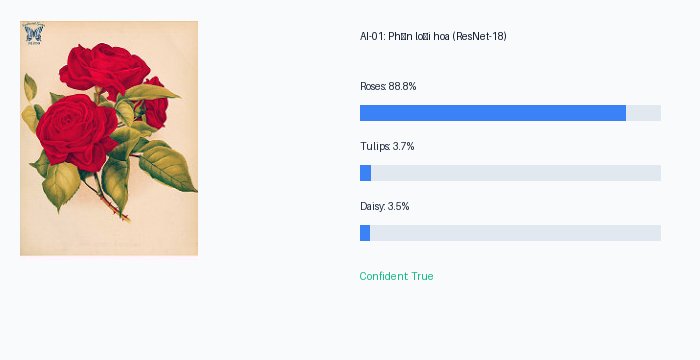
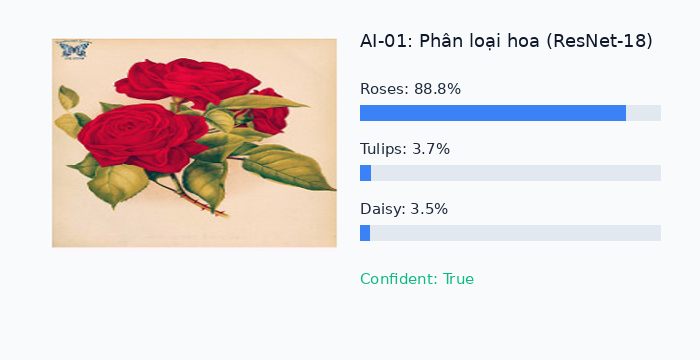
fix(assets): use Vietnamese-capable font for demo images

diff --git a/scripts/generate_demo_assets.py b/scripts/generate_demo_assets.py
@@ -13,6 +13,22 @@ from core.detector import ObjectDetector
 from core.retrieval import ImageSearch
 
 
+def _font(size: int) -> ImageFont.FreeTypeFont:
+    """Font hỗ trợ đầy đủ dấu tiếng Việt (PIL mặc định làm vỡ dấu)."""
+    candidates = [
+        "/usr/share/fonts/dejavu-sans-fonts/DejaVuSans.ttf",
+        "/usr/share/fonts/truetype/dejavu/DejaVuSans.ttf",
+        "/usr/share/fonts/google-noto-vf/NotoSans[wght].ttf",
+    ]
+    for path in candidates:
+        if Path(path).exists():
+            try:
+                return ImageFont.truetype(path, size)
+            except OSError:
+                continue
+    return ImageFont.load_default()
+
+
 def create_demo_assets():
     out_dir = Path("docs/images")
     out_dir.mkdir(parents=True, exist_ok=True)
@@ -32,16 +48,16 @@ def create_demo_assets():
         thumb.thumbnail((320, 320))
         card.paste(thumb, (20, 20))
 
-        draw.text((360, 30), "AI-01: Phân loại hoa (ResNet-18)", fill=(15, 23, 42))
+        draw.text((360, 30), "AI-01: Phân loại hoa (ResNet-18)", fill=(15, 23, 42), font=_font(20))
         y = 80
         for p in res["predictions"]:
             label = p["label"]
             score = p["score"]
-            draw.text((360, y), f"{label.capitalize()}: {score * 100:.1f}%", fill=(30, 41, 59))
+            draw.text((360, y), f"{label.capitalize()}: {score * 100:.1f}%", fill=(30, 41, 59), font=_font(16))
             draw.rectangle([360, y + 25, 360 + int(score * 300), y + 40], fill=(59, 130, 246))
             draw.rectangle([360 + int(score * 300), y + 25, 660, y + 40], fill=(226, 232, 240))
             y += 60
-        draw.text((360, y + 10), f"Confident: {res['confident']}", fill=(16, 185, 129))
+        draw.text((360, y + 10), f"Confident: {res['confident']}", fill=(16, 185, 129), font=_font(16))
         card.save(out_dir / "demo_classify.png")
         print("[OK] docs/images/demo_classify.png")
 
@@ -63,7 +79,7 @@ def create_demo_assets():
             im = Image.open(p).convert("RGB")
             im.thumbnail((180, 180))
             grid.paste(im, (15 + i * 195, 15))
-            draw_grid.text((15 + i * 195, 205), f"{h['label']} ({h['score']:.2f})", fill=(30, 41, 59))
+            draw_grid.text((15 + i * 195, 205), f"{h['label']} ({h['score']:.2f})", fill=(30, 41, 59), font=_font(14))
     grid.save(out_dir / "demo_search.png")
     print("[OK] docs/images/demo_search.png")
 
@@ -71,7 +87,12 @@ def create_demo_assets():
     overview = Image.new("RGB", (960, 480), color=(15, 23, 42))
     draw_ov = ImageDraw.Draw(overview)
     draw_ov.rectangle([20, 20, 940, 70], fill=(30, 41, 59))
-    draw_ov.text((40, 35), "AI Web Apps — 4 Mô hình AI (Streamlit & React + FastAPI)", fill=(248, 250, 252))
+    draw_ov.text(
+        (40, 35),
+        "AI Web Apps — 4 Mô hình AI (Streamlit & React + FastAPI)",
+        fill=(248, 250, 252),
+        font=_font(18),
+    )
 
     # 4 ô demo
     boxes = [
@@ -82,9 +103,14 @@ def create_demo_assets():
     ]
     for title, desc, (x, y) in boxes:
         draw_ov.rectangle([x, y, x + 420, y + 150], fill=(30, 41, 59), outline=(71, 85, 105))
-        draw_ov.text((x + 20, y + 25), title, fill=(56, 189, 248))
-        draw_ov.text((x + 20, y + 70), desc, fill=(203, 213, 225))
-        draw_ov.text((x + 20, y + 105), "Trạng thái: Hoàn thành & Tích hợp API", fill=(52, 211, 153))
+        draw_ov.text((x + 20, y + 25), title, fill=(56, 189, 248), font=_font(16))
+        draw_ov.text((x + 20, y + 70), desc, fill=(203, 213, 225), font=_font(14))
+        draw_ov.text(
+            (x + 20, y + 105),
+            "Trạng thái: Hoàn thành & Tích hợp API",
+            fill=(52, 211, 153),
+            font=_font(14),
+        )
 
     overview.save(out_dir / "demo_overview.png")
     print("[OK] docs/images/demo_overview.png")
